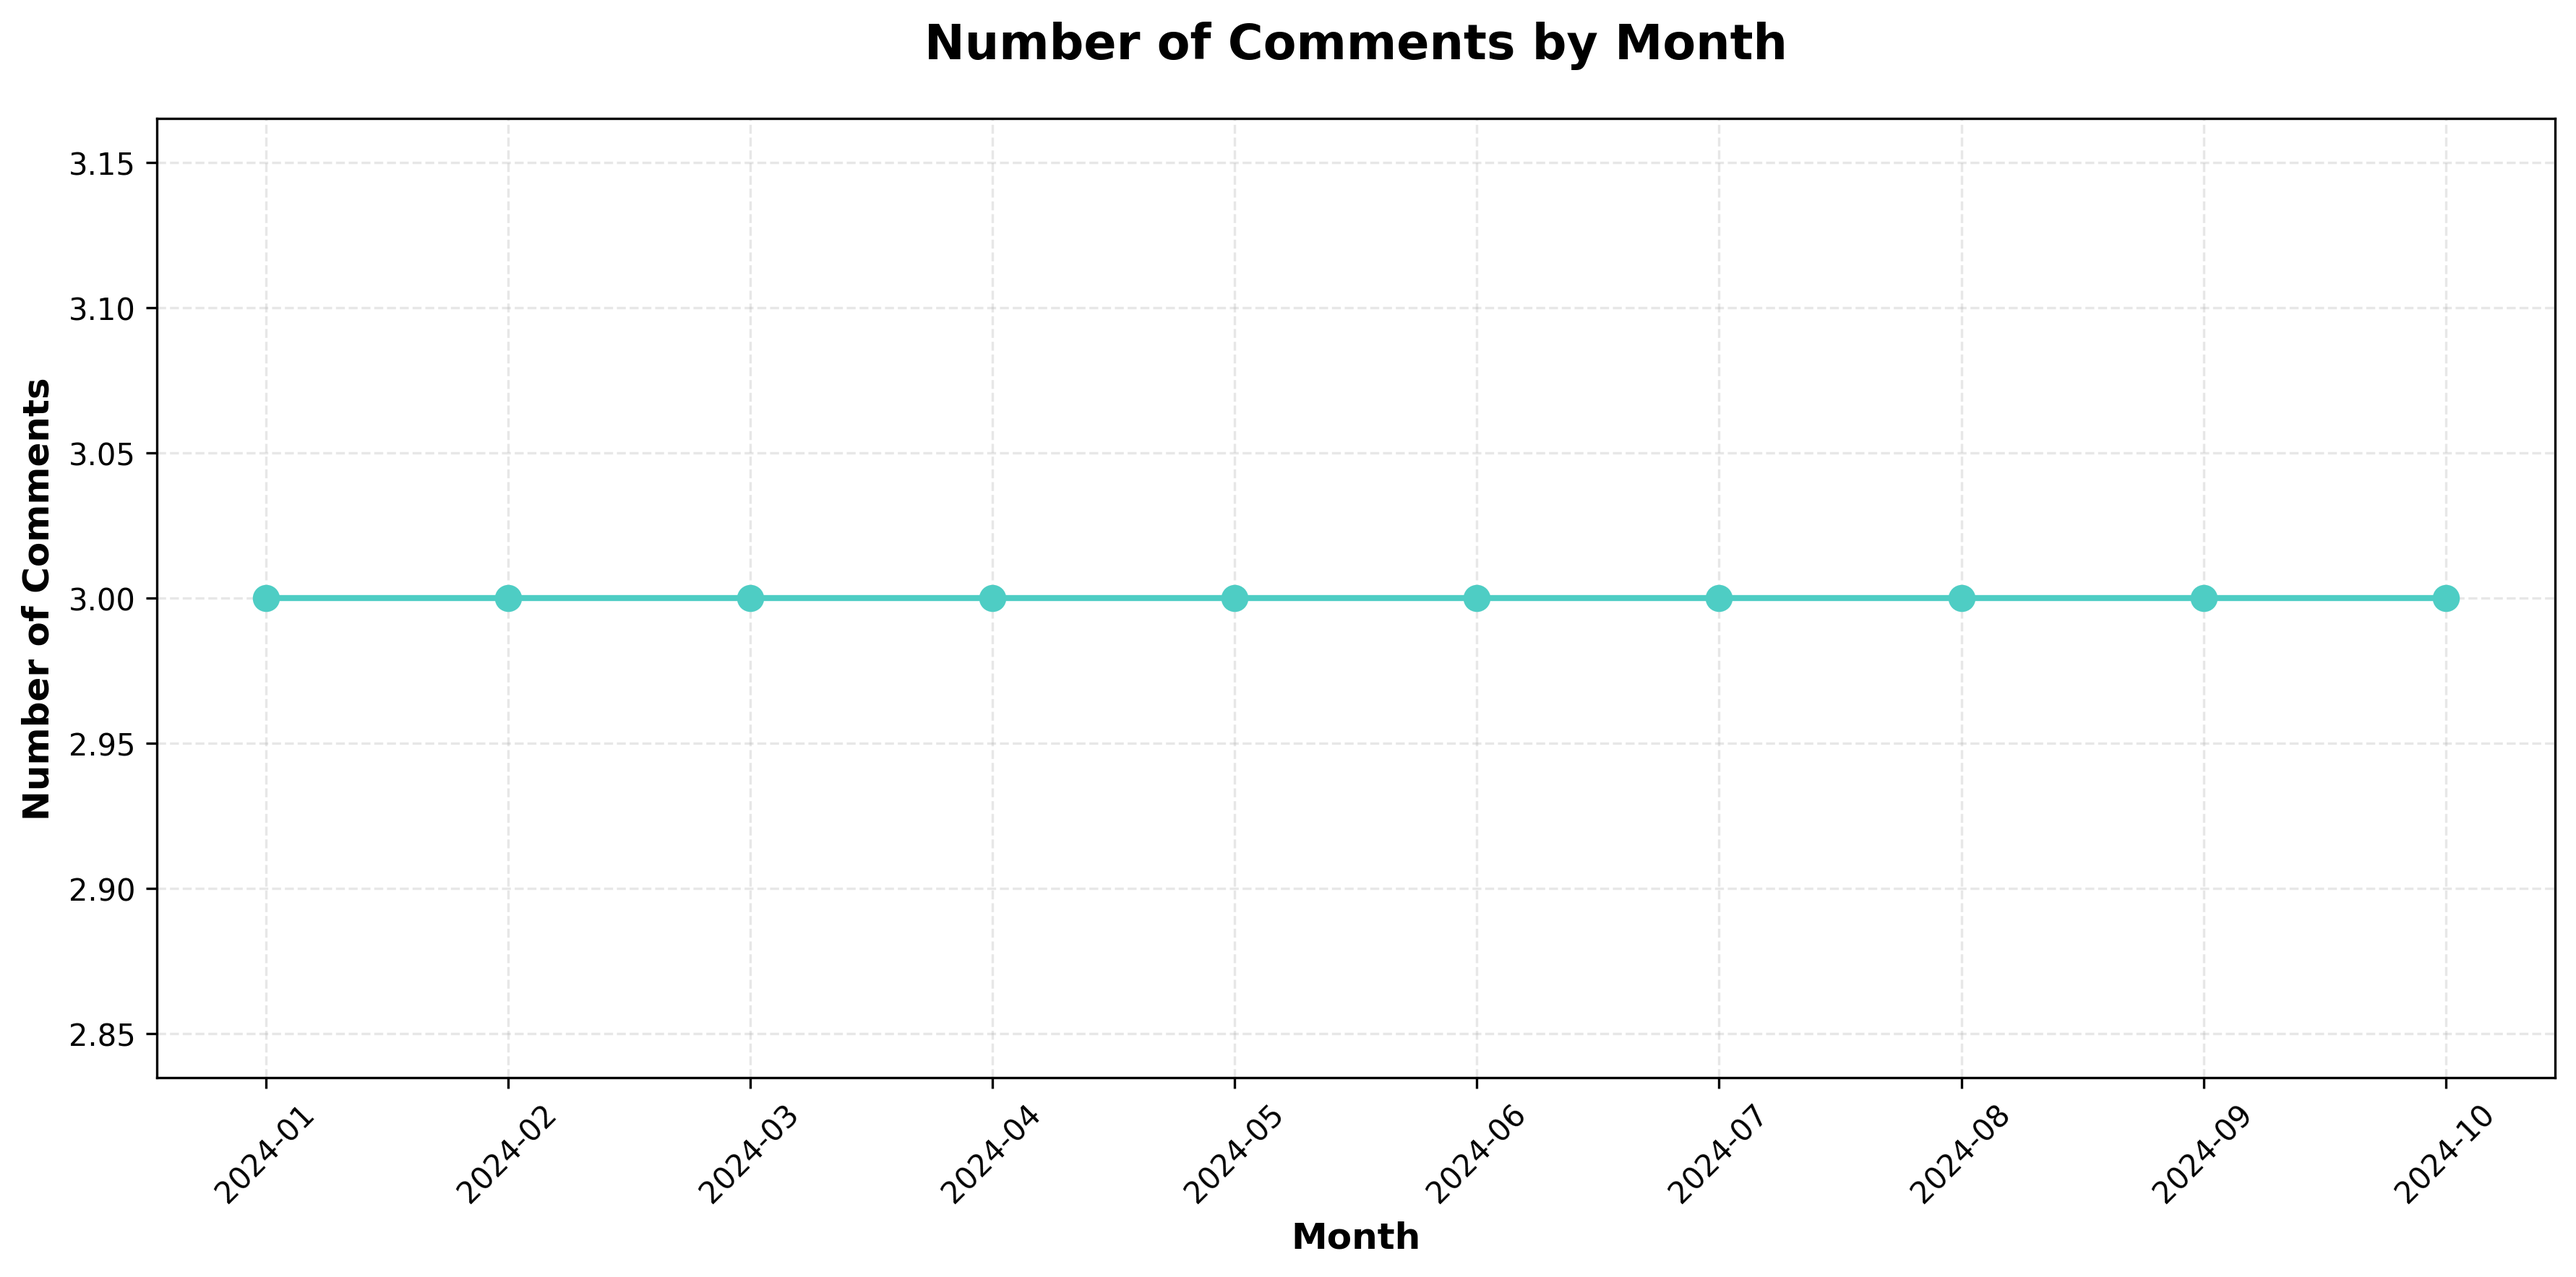
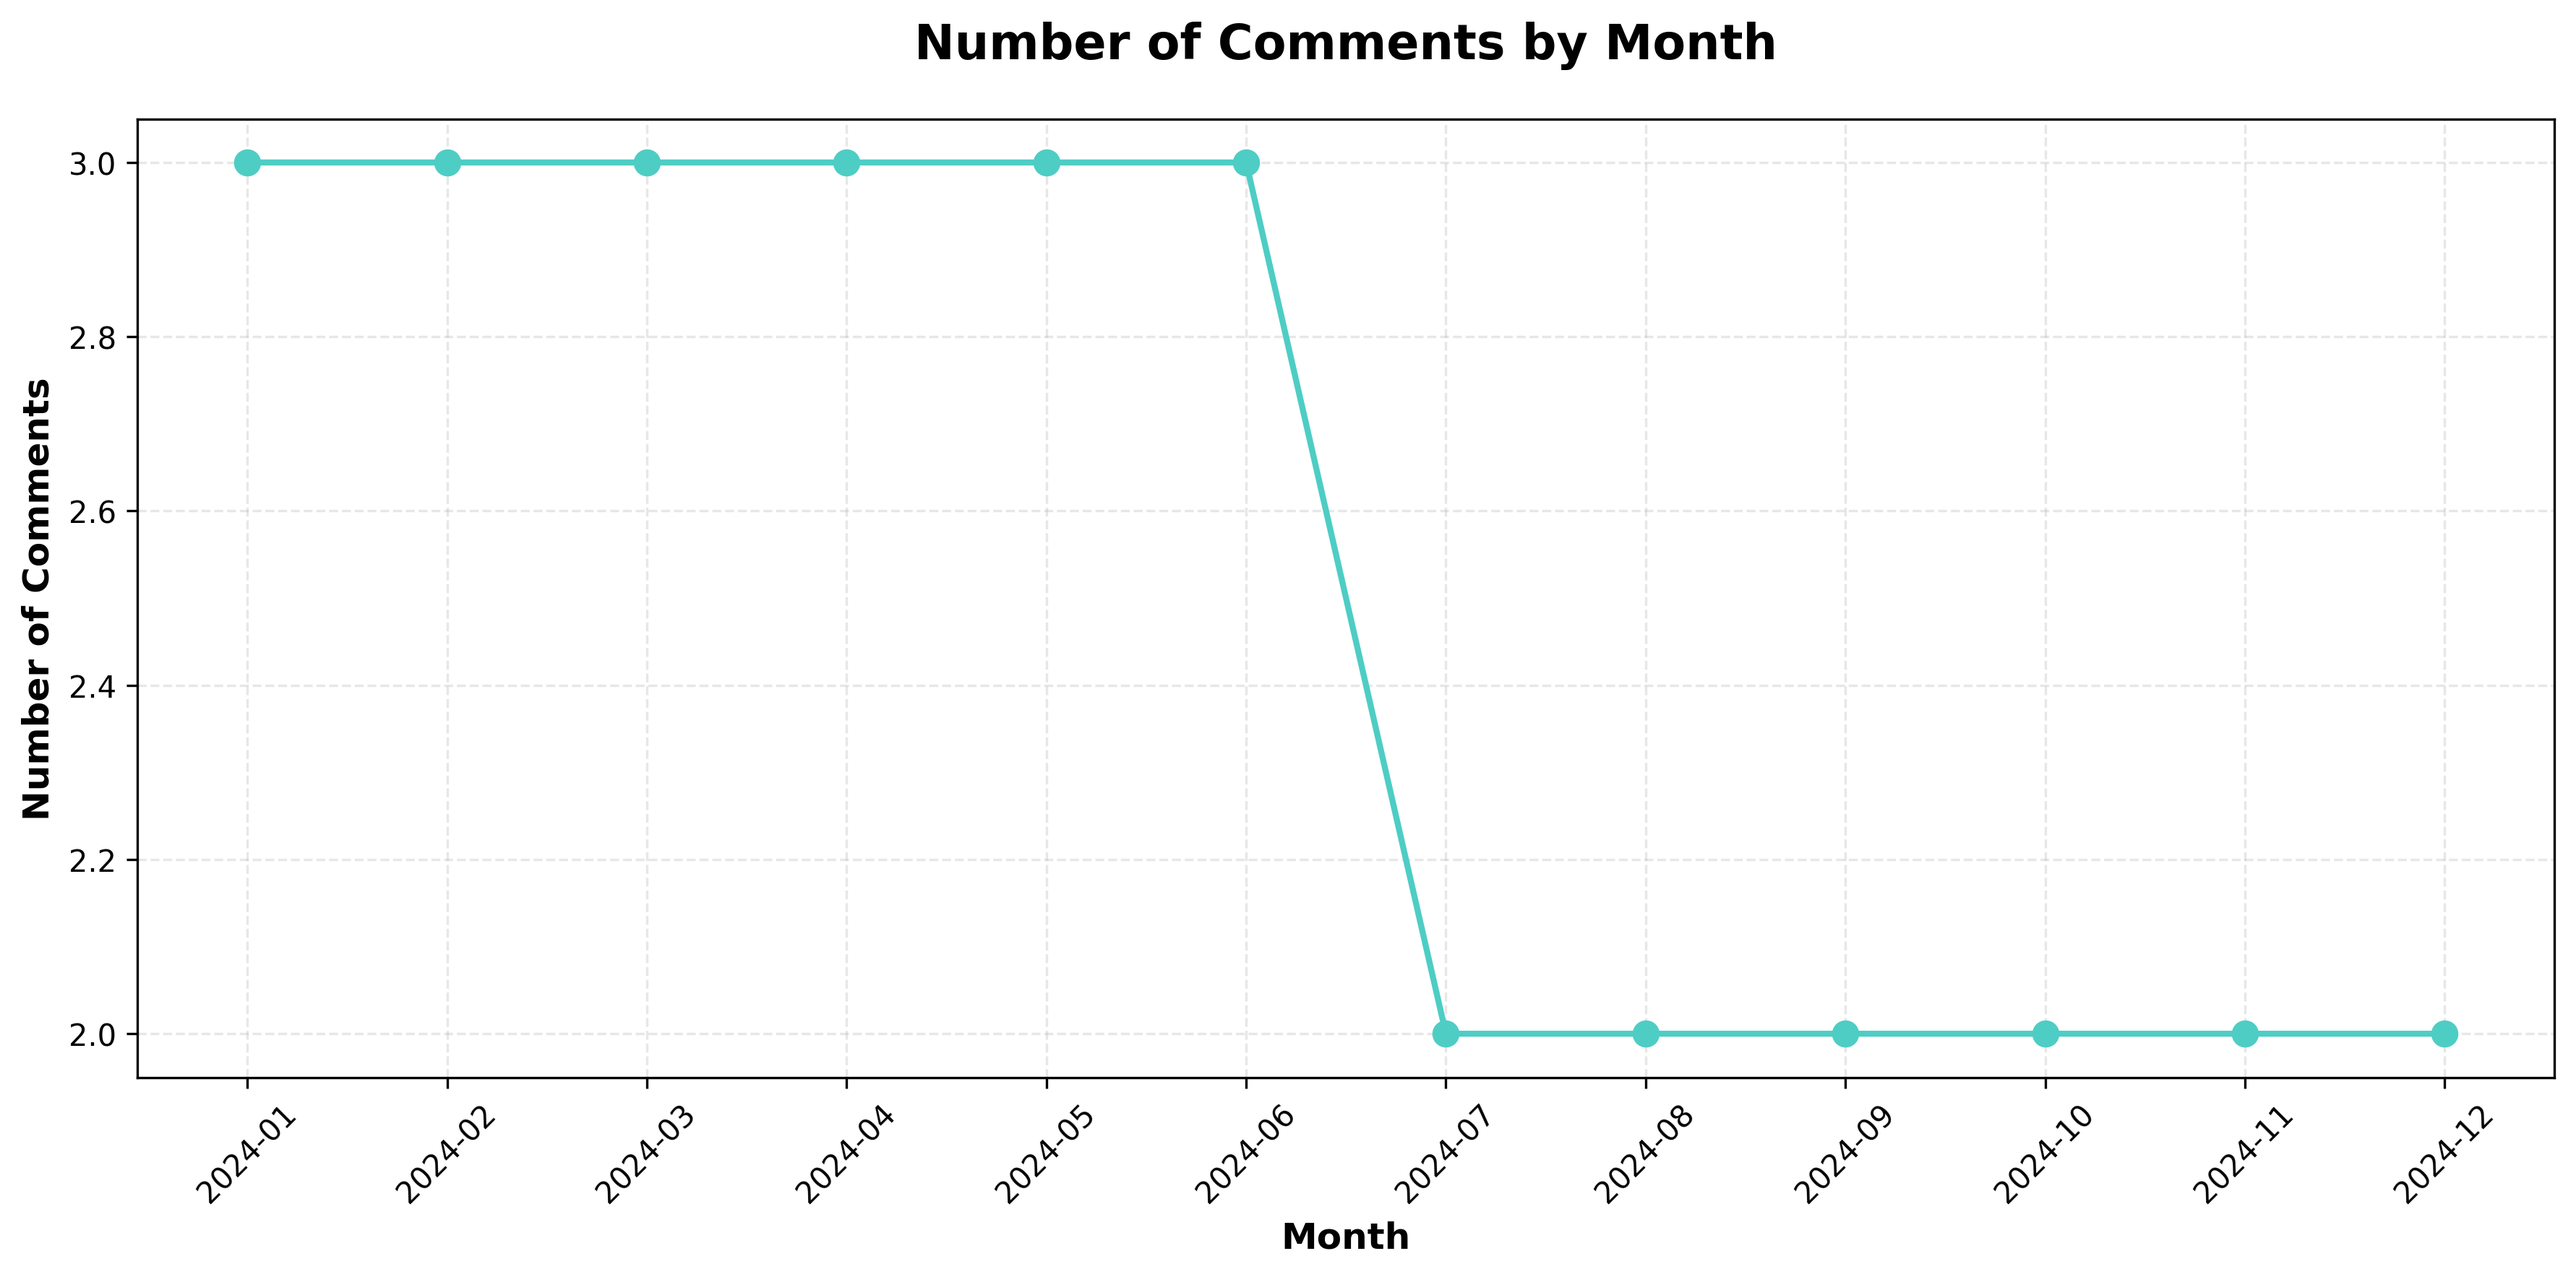
Fix code review issues - improve exception handling and date distribution

diff --git a/scripts/analyze_jetbrains_reviews.py b/scripts/analyze_jetbrains_reviews.py
@@ -75,7 +75,7 @@ class JetBrainsReviewAnalyzer:
                         print("Clicked popup button")
                         time.sleep(2)
                         break
-                    except:
+                    except Exception:
                         continue
             except Exception as e:
                 print(f"No popup found or error handling popup: {e}")
@@ -137,8 +137,12 @@ class JetBrainsReviewAnalyzer:
             try:
                 rating_elem = element.find_element(By.CSS_SELECTOR, "[data-test='star-rating']")
                 rating_text = rating_elem.get_attribute("aria-label") or rating_elem.text
-                rating = int(re.search(r'(\d)', rating_text).group(1)) if rating_text else 3
-            except:
+                if rating_text:
+                    match = re.search(r'(\d)', rating_text)
+                    rating = int(match.group(1)) if match else 3
+                else:
+                    rating = 3
+            except Exception:
                 rating = 3
             
             # Extract review text
@@ -239,10 +243,10 @@ class JetBrainsReviewAnalyzer:
         base_date = datetime(2024, 1, 1)
         
         for i, text in enumerate(sample_texts):
-            # Distribute reviews across months
-            month_offset = (i * 10) % 365
-            date = datetime(2024, 1, 1)
-            date = date.replace(month=min(12, (month_offset // 30) + 1))
+            # Distribute reviews across months (spread evenly across the year)
+            # Use modulo 12 to cycle through months
+            month = (i % 12) + 1
+            date = datetime(2024, month, 1)
             
             # Vary ratings based on content sentiment
             rating = 5

diff --git a/jetbrains_view/review_summary.md b/jetbrains_view/review_summary.md
@@ -1,12 +1,12 @@
 # JetBrains GitHub Copilot Plugin Reviews Summary
 
-*Generated on: 2025-11-06 07:31:23*
+*Generated on: 2025-11-06 07:36:39*
 
 ## 1. Overview
 
 - **Total Reviews Analyzed**: 30
 - **Average Rating**: 3.97 / 5.0
-- **Date Range**: 2024-01-01 to 2024-10-01
+- **Date Range**: 2024-01-01 to 2024-12-01
 - **Source**: [JetBrains Plugin Page](https://plugins.jetbrains.com/plugin/17718-github-copilot/reviews)
 
 ## 2. Comments Data Visualization
